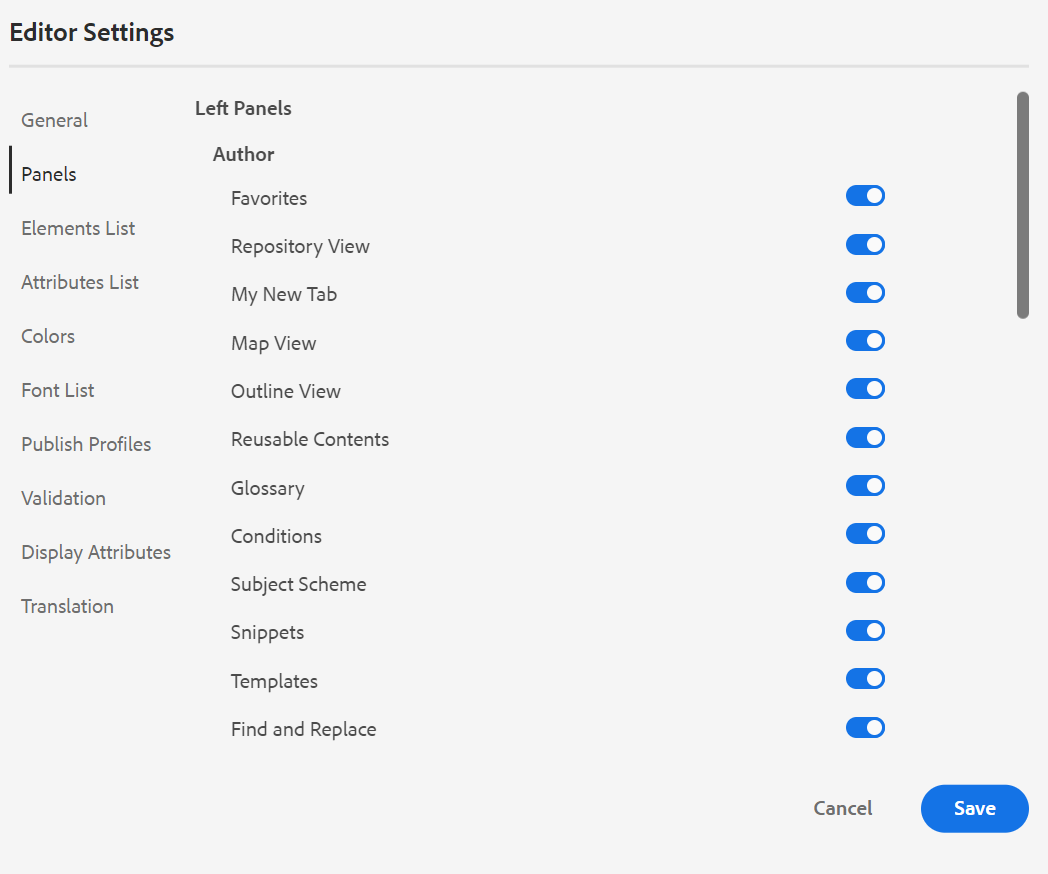
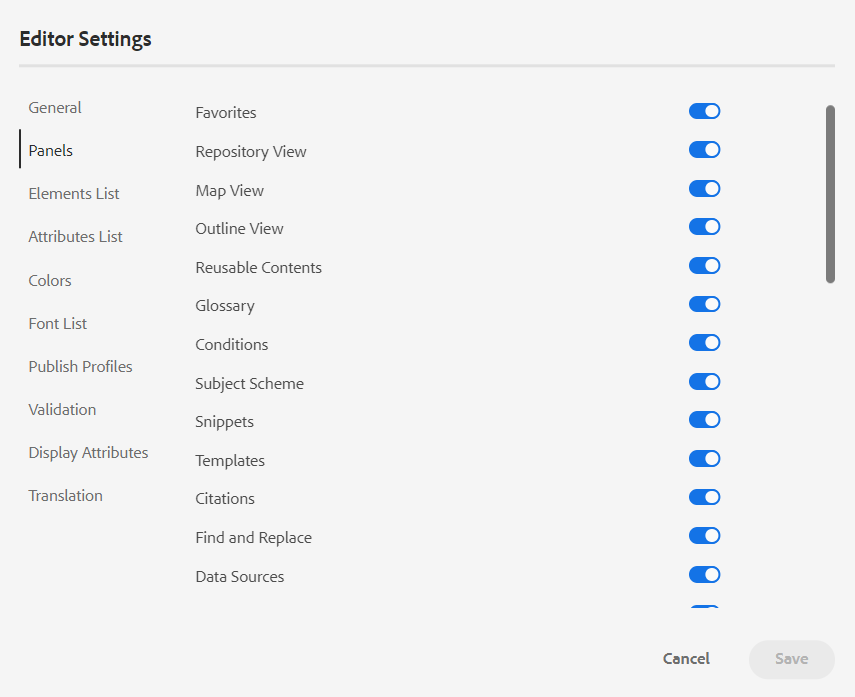
4.3 updates

diff --git a/help/tutorials/user-guide/web-editor-apply-citations.md b/help/tutorials/user-guide/web-editor-apply-citations.md
@@ -1,27 +1,28 @@
 ---
-title: Add citations into to your content
+title: Add citations to to your content
 description: Learn how to implement references by adding and applying citations to your content.
 ---
 
-# Add citations into your content
+# Add citations to your content
 
 Citations are references to the source or credits to the author added to the content. Add the citations to your project and apply them to your content. You can add these citations from any source of books, websites, and journals. Citations are only visible in PDF outputs. You can find the catalog for them at the end of the PDF. For some scenarios, it’s mandatory to add citations. There are three main reasons to include citations in your content.
 
-* To credit the authors of the source information, you use for your content.
+* To credit the authors of the source information you use for your content.
 * To help readers to follow up on the source information.
 * To display well-researched content.
 There are different styles to display the citations having formats like MLA, APA, Chicago, IEEE, and AHA. The recommendation is to use them clearly and consistently. It makes your content more reliable and prevents plagiarism.
 
-Learn more about these styles from Manage Projects.
 
 
-## Add a Citation to the project
+
+## Add a citation to the project
 
 To add a citation to the project, follow these steps:
 
-1. Select the **Citations** icon in the left panel.
+1. Select the **Citations** ![](images/citations-icon.svg) icon in the left panel.
 The **Citations** panel opens.
-![](images/citation-panel.png){width="300" align="left"}
+
+    ![](images/citation-panel.png){width="300" align="left"}
 
 1. In the **Citations** panel, select ![](images/Add_icon.svg) and then select **New Citation**.
 The **Add Citation** dialog box opens.
@@ -33,12 +34,12 @@ The **Add Citation** dialog box opens.
    
     | Book | Website |Journal|
     | --- | ---|---|
-    |**Source** <br> From the drop-down, select the source of the citation as Book.| **Source**<br>From the drop-down, select the source of the citation as Website.| **Source** <br> From the drop-down, select the source of the citation as Journal.|
+    |**Source** <br> From the drop-down, select the source of the citation as a Book.| **Source**<br>From the drop-down, select the source of the citation as a Website.| **Source** <br> From the drop-down, select the source of the citation as a Journal.|
     |**Search by** <br> Select ISBN or DOI from the drop-down to search for the digital ID linked to the citation. You can directly search from the listed citation by entering the ID in the search column. <br> DOI: Digital Object Identifier <br> ISBN: Unique Numeric Book Identifier | **Search by** <br> Select DOI from the drop-down to search for the digital ID linked to the citation. You can directly search from the listed citation by entering the ID in the search column. <br> DOI: Digital Object Identifier | **Search by** <br> Select DOI or PubMed ID from the drop-down to search for the digital ID linked to the citation. You can directly search from the listed citation by entering the ID in the search column. <br> DOI: Digital Object Identifier <br> |
     |**Author** <br> Add the first and last name of the author of the citation. Select ![](images/Add_icon.svg) to add more names. | **Author** <br> Add the first and last name of the author of the citation. Select ![](images/Add_icon.svg)  to add more names. | **Author** <br> Add the first and last name of the author of the citation. Select ![](images/Add_icon.svg)to add more names. | 
     |**Title** <br> Add the title of the book. | **Title** <br> Add the title of the web page.| **Title** <br> Add the title of the article.| 
     |**Editor** <br> Add the editor of the book. | **Website Name** <br> Add the name of the website. | **Journal Title** <br> Add the title of the work in which the article is found.| 
-    |**Edition** <br> Add the edition of the book.| **URL** <br> Add the web link of the website to browse the content.| **Year** <br> Add the year in which the article is published |
+    |**Edition** <br> Add the edition of the book.| **URL** <br> Add the web link of the website to browse the content.| **Year** <br> Add the year in which the article is published. |
     |**City** <br> Add the city of the publication.| **Accessed Date**<br> Add the date on which the content of the website is accessed. | **Volume** <br> Add the volume of the work in the series. |
     |**Publisher** <br> Add the name of the publisher of the book. | **Published Date** <br> Add the date on which the content of the website is published.|**Number** <br> Add the number of the volume within the series. |
     | **Year** <br> Add the year in which the book is published.|**Updated Date** <br> Add the date on which the content of the website is updated.| **Pages** <br> Add the page number or page range in which the article is found. |
@@ -59,11 +60,11 @@ The **Add Citation** dialog box opens.
 >
 > Adding a Unique ID for the citation field is mandatory.  You cannot change the unique ID once the citation is added.
 
-## Import citations to the project
+## Import citations to a project
 
-To import a citation to the project, follow these steps:
+To import citations to a project, follow these steps:
 
-1. In the left panel, click **Citations**.
+1. In the left panel, select **Citations** ![](images/citations-icon.svg).
 
     The **Citations** panel opens.
 
@@ -77,11 +78,11 @@ Once the file is imported successfully, you can view the references in the citat
 >
 > A .bib filename extension is a BibTeX Bibliographical Database file. It's a specially formatted text file that lists references about a particular source of information.
 
-### Edit a citation in the project
+### Edit a citation
 
 To edit the citation, follow these steps:
 
-1. Hover over the name of the citation from the list. Select  ![](images/options.svg) **Options** icon.
+1. Hover over the name of the citation from the list. Select  ![](images/options.svg) the **Options** icon.
 
 1. Select  **Edit**.
 
@@ -94,9 +95,9 @@ The selected citation is edited.
 >
 >You cannot change the unique ID once the citation is added.
 
-## Preview of citation in the project
+## Preview a citation 
 
-To preview the citation in the project, follow these steps:
+To preview a citation, follow these steps:
 
 Hover over the name of the citation from the list. Select     ![](images/options.svg) **Options** icon.
 
@@ -111,21 +112,42 @@ You can preview the content and format of the citation in the preview box.
 ## Insert a citation
 
 You can insert a citation to a topic.
- 1. Select the topic in the repository panel, then double-click to open it in editing window. 
- 1. Put the cursor at the location in the topic where you want to add the citation.
+ 1. Select the topic in the repository panel, then double-click to open it in the editing window. 
+ 1. Put the cursor at the location of the topic where you want to add the citation.
 
 You can insert a citation to the topic in the following ways: 
 * From the main toolbar 
+
+    ![](images/citation-dialog-main-toolbar.png){width="300" align="left"}
+
 * From the left panel
+
+    ![](images/citation-panel-insert.png)
+
+
+> [!NOTE]
+> 
+>To view the **Citations** icon from the left panel, your system administrator must select the **Citations** option in the **Panels** tab in **Editor Settings**.
 
 |**From the main toolbar** |**From the left panel**|
 |---|---|
-|<ol> <li> In the main toolbar, select **Citations**. <li>In the **Citations** dialog, choose the citation. You can also select multiple citations. <li> Click **Done**. <br> The selected citation is added at the cursor location in your topic. <br> Alternatively, press Ctrl+5. You can filter citations by typing the first few alphabets in the search panel of the **Citation** dialog box.<br> Press the upward and downward arrow keys to navigate through the list of citations. Press `Enter` to insert a citation. <li> Select the **Save All** ![](images/SaveFloppy_icon.svg) icon in the main toolbar.</ol>|<ol><li> In the left panel, select **Citations**. <li> Drag the citation from the **Citations** panel and drop it at the appropriate location in the topic.  <li> To select multiple citations, double-click the citation text and choose the citations. <li>Select **Done** to add them to the topic. <br> You can also select **Insert** from  ![](images/options.svg) **Options** to insert a Citation. <li> Select the **Save All** ![](images/SaveFloppy_icon.svg) icon  in the main toolbar.</ol>|
+|<ol> <li> Select the **Citations** ![](images/citations-icon.svg) icon in the main toolbar,. <li>In the **Citations** dialog, choose the citation. You can also select multiple citations. <li> Click **Done**. <br> The selected citation is added at the cursor location in your topic. <br> Alternatively, press Ctrl+5. You can filter citations by typing the first few alphabets in the search panel of the **Citation** dialog box.<br> Press the upward and downward arrow keys to navigate through the list of citations. Press `Enter` to insert a citation. <li> Select the **Save All** ![](images/SaveFloppy_icon.svg) icon in the main toolbar.</ol>|<ol><li> Select **Citations** ![](images/citations-icon.svg) icon in the left panel,. <li> Drag the citation from the **Citations** panel and drop it at the appropriate location in the topic.  <li> To select multiple citations, double-click the citation text and choose the citations. <li>Select **Done** to add them to the topic. <br> You can also select **Insert** from  ![](images/options.svg) **Options** to insert a Citation. <li> Select the **Save All** ![](images/SaveFloppy_icon.svg) icon  in the main toolbar.</ol>|
 
 
-Once you insert citations to the project topic, you can list them in PDF output. Create a citations page in the bookmap, and add it to the table of contents. To add a citation page to your Table of Contents, view Create and manage a table of contents.
+Once you insert citations to the project topic, you can list them in PDF output. Create a **Citations** page layout in the PDF templates, and include it in your document. All the citations used in the book gets listed on one page and appear at the end of the PDF output. To learn more about creating a page layout, view [Create a page layout](../native-pdf/components-pdf-template.md#create-page-layout).
 
-To change the view and feel of the citation page, view Customize PDF templates.
+To change the view and feel of the citation page, view [Customize PDF templates](../native-pdf/pdf-template.md).
+
+## Change citation style {#change-citation-style}
+
+Your system administrator can change the style of citations from the **Citations**  dropdown in the **General Settings** tab in the **Editor Settings**.
+
+The following options are available in the dropdown:
+
+|MLA |APA| Chicago | IEEE | AHA
+|---|---|---|---|---|
+|Who uses it? <ul><li> Literature <li> Foreign Languages <li> Communications <li> Religious Studies <li> Philosophy</ul>|Who uses it? <ul><li> Psychology <li> Education <li>Business or Economics <li> Nursing <li> Linguistic Studies</ul>|Who uses it? <ul> <li> History <li>Art History <li>Fine Arts <li> Anthropology<li>Business</ul>| Who uses it? <ul> <li>Engineering <li>Computer Science <li>Information Science</ul>| Who uses it? <li> Books <li> Music <li> Videos |
+| Example:<br> Crawford, Claire, et al. *Emotional Content of Dark Memories*.Edited by Memory, vol 16, 2010, Amsterdam.| Example: <br> Crawford, C., J., & , C. (2010). *Emotional Content of Dark Memories* (505-16 ed.). 10.1080/ 09658210902067289| Example: <br> Crawford, Claire, et al. *Emotional Content of Dark Memories*. 505-16, 2010. |Example: <br> C. Crawford, J. , and C. , *Emotional Content of Dark Memories*. Amsterdam, 2010. | Example: <br> C. Crawford, J. , and C. , *Emotional Content of Dark Memories*. Amsterdam, 2010.
 
 ## Delete a citation
 
@@ -139,7 +161,7 @@ To delete a citation from the project, follow these steps:
 The confirmation dialog box opens.
 1. Select **Yes**.
 The selected citation is deleted from the project.
-1. Delete citation
+1. Delete the citation
 
 ### Delete a Citation from a Topic
 
@@ -149,12 +171,12 @@ In the topic, place your cursor at the end of the citation.
 
 1. Click the Delete key from the keyboard.
 
-Alternatively, if you're deleting the used citation from the citation panel directly, hover over the citation. 
+Alternatively hover over the citation, if you're deleting the used citation from the citation panel directly. 
 1. Select ![](images/Delete_icon.svg)  **Delete** from ![](images/options.svg) **Options**.
  The **Delete Citation** dialog box opens.
 
 1. Select the required option.
-    *  **Delete the citation and its references**: It deletes the citation from the project and all its references present in the topic.
+    *  **Delete the citation and its references**: It deletes the citation from the project and all its references in the topic.
     * **Delete only the citation**: It only deletes the citation but leaves the references present in the topic. 
 
 1. Select **Done**.
@@ -163,11 +185,11 @@ The selected citation is deleted from the project.
 
 ## Manage citations
 
-From the  toolbar, sort and search for citations according to the sources to use in your topic.
+From the  toolbar, sort, and search for citations according to the sources to use in your topic.
 
 ### Filter
 
-To filter the citation source list, select **Filter** ![](images/filter-search-icon.svg) ficon next to the search bar. Select the source options from the drop-down to filter the citation list. It allows both single and multiple selections. 
+Select the **Filter** ![](images/filter-search-icon.svg) icon next to the search bar and select the source options from the drop-down to filter the citation list. It allows both single and multiple selections. 
 
 * **All Sources**: It shows a complete list of citations, including all the sources.
 
@@ -181,12 +203,14 @@ To filter the citation source list, select **Filter** ![](images/filter-search-i
 
 Search the citation for your content.
 
-1. In the left panel, click Citations.
+1. In the left panel, select Citations.
 The **Citations** panel opens.
 
 1. Use the Search bar to search for the appropriate citation from a long list.
 
-### Styling of a citation
+
+
+### Apply style to a citation
 
 1. Apply formatting to the citation when added to the topic. 
 
@@ -194,4 +218,4 @@ The **Citations** panel opens.
 
 1. In the Search panel, search for `<cite>`.
 
-To learn more about styles, see [Work with the common content styles](../native-pdf/stylesheet.md)
+To learn more about styles, view [Work with the common content styles](../native-pdf/stylesheet.md).

diff --git a/help/tutorials/native-pdf/pdf-template.md b/help/tutorials/native-pdf/pdf-template.md
@@ -64,10 +64,10 @@ To customize a PDF template, follow the below steps:
    <img src="assets/customize-pdf-template.png" alt="Customize PDF Teamplte" width="350">
    
    The various template components that you can customize are categorized under the following sections:
-   * Page Layouts: A typical PDF contains different pages, such as a front cover or title page, TOC, chapter, index, and more. The Page Layouts section allows you to design the look-and-feel of different pages that would make up your PDF. In addition to the appearance, you can also define the arrangement of page elements such as the header, footer, and content areas on a page. To know more on customizing a page's layout, see [Create and customize page layouts](components-pdf-template.md#create-customize-page-layout).
+   * Page Layouts: A typical PDF contains different pages, such as a front cover or title page, TOC, chapter, index, citations, and more. The Page Layouts section allows you to design the look-and-feel of different pages that would make up your PDF. In addition to the appearance, you can also define the arrangement of page elements such as the header, footer, and content areas on a page. To know more on customizing a page's layout, see [Create and customize page layouts](components-pdf-template.md#create-customize-page-layout).
    * Stylesheets: The settings in the Stylesheets section allows you to customize the look and feel of the page layout components like the TOC, index, glossary and more. In addition, you can also customize the styles for the DITA content like headings, paragraphs, lists, and more. To know more on using the stylesheets, see [Use Stylesheets to customize PDF](components-pdf-template.md#stylesheet-customization).
    * Resources: Store asset files that you would need to customize or design PDF templates. Assets such as logos, custom fonts, background images, and more are stored in the Resources. To know more on utilizing resources, see [Work with resources](components-pdf-template.md#work-with-resources).
-   * Settings: Configure the output settings for generating a PDF using the template. This section allows you to define template mapping for various pages in a PDF, chapter starting page, print markers, and more. For more information on applying settings, see [Advanced PDF Settings](components-pdf-template.md#advanced-pdf-settings).
+   * Settings: Configure the output settings for generating a PDF using the template. This section allows you to define template mapping for various pages in a PDF, chapter starting page, print markers, citations, and more. For more information on applying settings, see [Advanced PDF Settings](components-pdf-template.md#advanced-pdf-settings).
 1. To customize a template component, double-click on a template component or click the > icon before it.
    
    For example, double-click on *Page Layouts* or click the *>* icon before *Page Layouts* to view the available

diff --git a/help/tutorials/user-guide/web-editor-features.md b/help/tutorials/user-guide/web-editor-features.md
@@ -109,6 +109,11 @@ The Editor Settings are only available to administrative users. Using the prefer
     -  **Authoring**
 
         -   **Enable Replace All**: Select this to see Replace All icon in the Find and Replace panel.
+        
+
+    -  **Citations**
+       Change the style of citations. Choose the citation style from the drop-down you want to use in your project. For more details see [Change citation styles](./web-editor-apply-citations.md#change-citation-style).
+
 
 **Panels**: This setting controls the panels that are shown in the left panel of the editor. You can toggle the switch to show or hide the desired panel.
 
